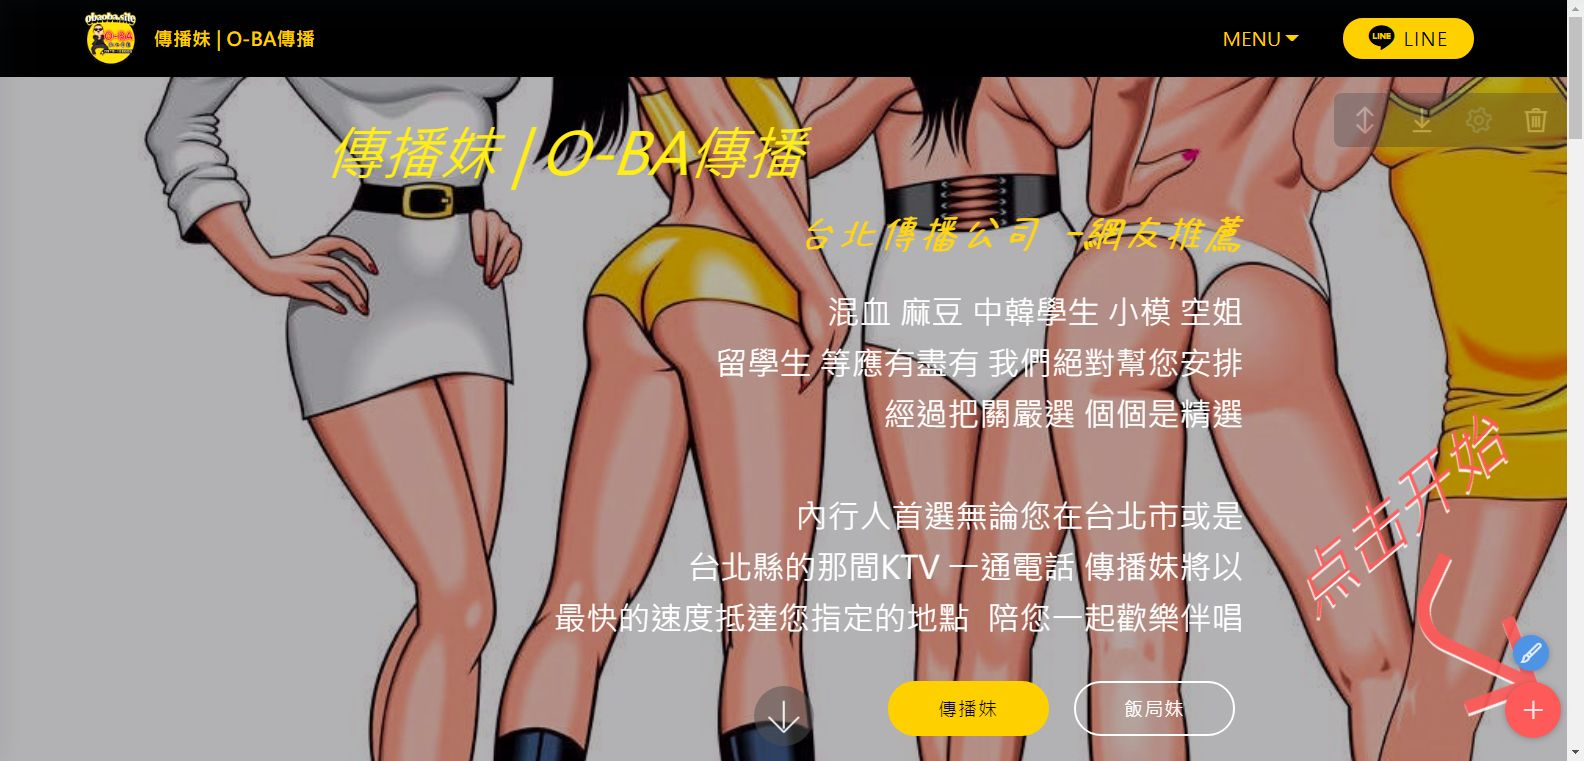
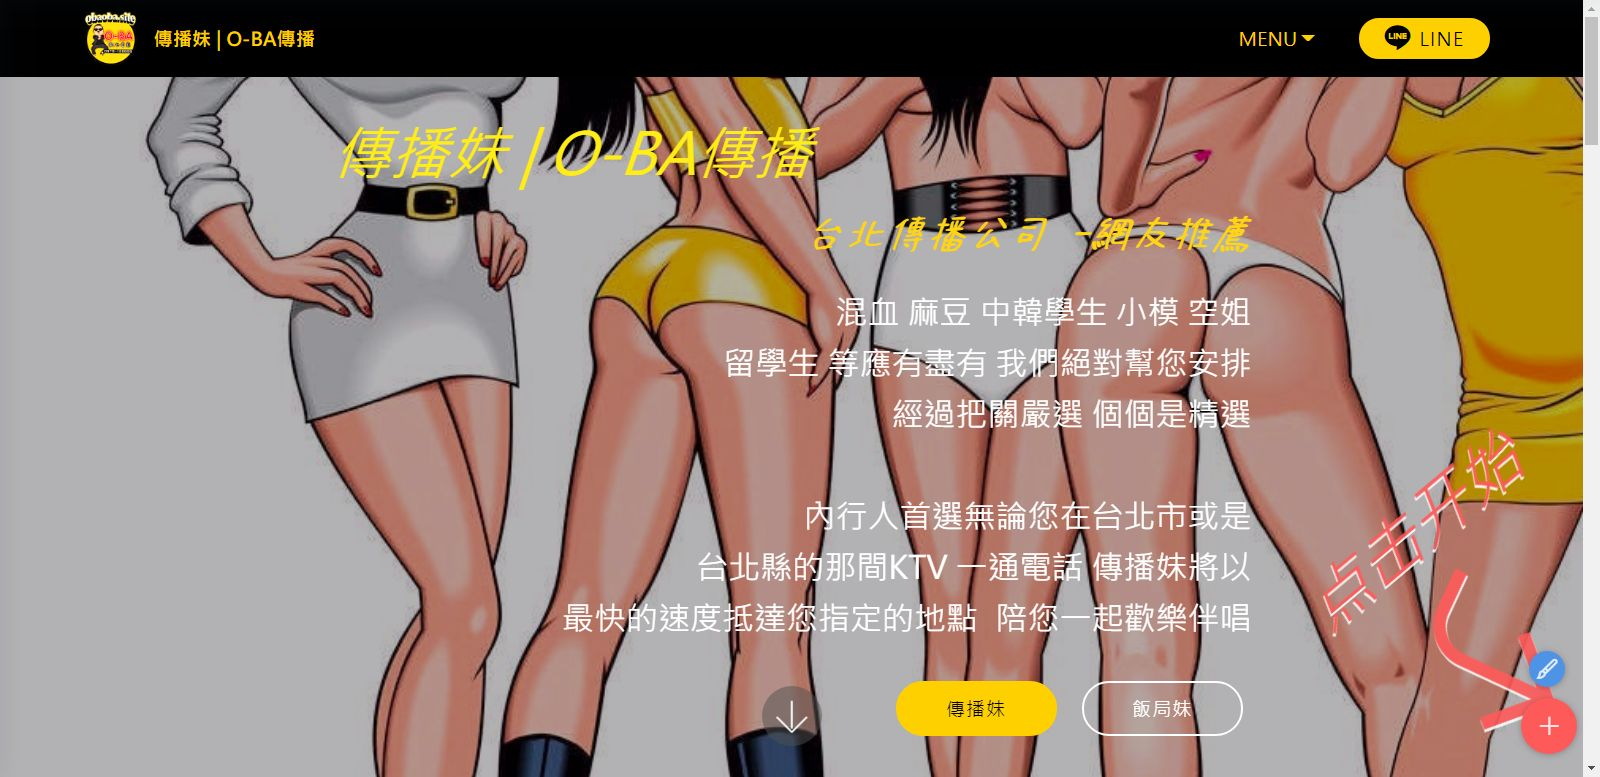
350

diff --git a/about.html b/about.html
@@ -54,43 +54,7 @@
 
 
   
-  <section class="menu cid-qTkzRZLJNu" once="menu" id="menu1-15">
-
-    
-
-    <nav class="navbar navbar-expand beta-menu navbar-dropdown align-items-center navbar-fixed-top navbar-toggleable-sm">
-        <button class="navbar-toggler navbar-toggler-right" type="button" data-toggle="collapse" data-target="#navbarSupportedContent" aria-controls="navbarSupportedContent" aria-expanded="false" aria-label="Toggle navigation">
-            <div class="hamburger">
-                <span></span>
-                <span></span>
-                <span></span>
-                <span></span>
-            </div>
-        </button>
-        <div class="menu-logo">
-            <div class="navbar-brand">
-                <span class="navbar-logo">
-                    <a href="index.html" target="_blank">
-                         <img src="assets/images/oba-1-146x136.png" alt="傳播妹 | O-BA傳播" title="" style="height: 3.8rem;">
-                    </a>
-                </span>
-                <span class="navbar-caption-wrap"><a class="navbar-caption text-success text-primary display-4" href="https://obaoba.site/" target="_blank">
-                        傳播妹 | O-BA傳播</a></span>
-            </div>
-        </div>
-        <div class="collapse navbar-collapse" id="navbarSupportedContent">
-            <ul class="navbar-nav nav-dropdown" data-app-modern-menu="true"><li class="nav-item dropdown">
-                    <a class="nav-link link text-success text-primary dropdown-toggle display-4" href="#" target="_blank" data-toggle="dropdown-submenu" aria-expanded="false">&nbsp;MENU</a><div class="dropdown-menu"><a class="text-success text-primary dropdown-item display-4" href="https://obaoba.site/" target="_blank" aria-expanded="false">首頁</a><a class="text-success text-primary dropdown-item display-4" href="https://obaoba.site/girl.html" target="_blank" aria-expanded="false">傳播妹</a><a class="text-success text-primary dropdown-item display-4" href="https://obaoba.site/dinner-girl.html" target="_blank" aria-expanded="false">飯局妹<br></a><div class="dropdown"><a class="text-success text-primary dropdown-item dropdown-toggle display-4" href="#" target="_blank" aria-expanded="false" data-toggle="dropdown-submenu">情報特搜</a><div class="dropdown-menu dropdown-submenu"><a class="text-success text-primary dropdown-item display-4" href="https://obaoba.site/lust-index.html" target="_blank" aria-expanded="false">叫傳播妹好色指數˙七大類型</a></div></div><a class="text-success text-primary dropdown-item display-4" href="https://obaoba.site/about.html" target="_blank" aria-expanded="false">關於我們</a></div>
-                </li><li class="nav-item">
-                    <a class="nav-link link text-success display-4" href="https://mobirise.com">
-                        </a>
-                </li></ul>
-            <div class="navbar-buttons mbr-section-btn"><a class="btn btn-sm btn-success display-4" href="https://line.me/R/ti/p/%40744xbovi" target="_blank"><span class="socicon socicon-line mbr-iconfont mbr-iconfont-btn"></span>LINE</a></div>
-        </div>
-    </nav>
-</section>
-
-<section class="mbr-section content7 cid-rS6nSuGp2j" id="content7-17">
+  <section class="mbr-section content7 cid-rS6nSuGp2j" id="content7-17">
           
     
 
@@ -128,6 +92,42 @@
             </div>
         </div>
     </div>
+</section>
+
+<section class="menu cid-qTkzRZLJNu" once="menu" id="menu1-15">
+
+    
+
+    <nav class="navbar navbar-expand beta-menu navbar-dropdown align-items-center navbar-fixed-top navbar-toggleable-sm">
+        <button class="navbar-toggler navbar-toggler-right" type="button" data-toggle="collapse" data-target="#navbarSupportedContent" aria-controls="navbarSupportedContent" aria-expanded="false" aria-label="Toggle navigation">
+            <div class="hamburger">
+                <span></span>
+                <span></span>
+                <span></span>
+                <span></span>
+            </div>
+        </button>
+        <div class="menu-logo">
+            <div class="navbar-brand">
+                <span class="navbar-logo">
+                    <a href="index.html" target="_blank">
+                         <img src="assets/images/oba-1-146x136.png" alt="傳播妹 | O-BA傳播" title="" style="height: 3.8rem;">
+                    </a>
+                </span>
+                <span class="navbar-caption-wrap"><a class="navbar-caption text-success text-primary display-4" href="https://obaoba.site/" target="_blank">
+                        傳播妹 | O-BA傳播</a></span>
+            </div>
+        </div>
+        <div class="collapse navbar-collapse" id="navbarSupportedContent">
+            <ul class="navbar-nav nav-dropdown" data-app-modern-menu="true"><li class="nav-item dropdown">
+                    <a class="nav-link link text-success text-primary dropdown-toggle display-4" href="#" target="_blank" data-toggle="dropdown-submenu" aria-expanded="false">&nbsp;MENU</a><div class="dropdown-menu"><a class="text-success text-primary dropdown-item display-4" href="https://obaoba.site/" target="_blank" aria-expanded="false">首頁</a><a class="text-success text-primary dropdown-item display-4" href="https://obaoba.site/girl.html" target="_blank" aria-expanded="false">傳播妹</a><a class="text-success text-primary dropdown-item display-4" href="https://obaoba.site/dinner-girl.html" target="_blank" aria-expanded="false">飯局妹<br></a><div class="dropdown"><a class="text-success text-primary dropdown-item dropdown-toggle display-4" href="#" target="_blank" aria-expanded="false" data-toggle="dropdown-submenu">情報特搜</a><div class="dropdown-menu dropdown-submenu"><a class="text-success text-primary dropdown-item display-4" href="https://obaoba.site/lust-index.html" target="_blank" aria-expanded="false">叫傳播妹好色指數˙七大類型</a></div></div><a class="text-success text-primary dropdown-item display-4" href="https://obaoba.site/about.html" target="_blank" aria-expanded="false">關於我們</a></div>
+                </li><li class="nav-item">
+                    <a class="nav-link link text-success display-4" href="https://mobirise.com">
+                        </a>
+                </li></ul>
+            <div class="navbar-buttons mbr-section-btn"><a class="btn btn-sm btn-success display-4" href="https://line.me/R/ti/p/%40744xbovi" target="_blank"><span class="socicon socicon-line mbr-iconfont mbr-iconfont-btn"></span>LINE</a></div>
+        </div>
+    </nav>
 </section>
 
 <section class="mbr-section contacts3 cid-rS6pEHVPwf" id="contacts3-18">
@@ -256,7 +256,7 @@
             </div>
         </div>
     </div>
-</section><section style="background-color: #fff; font-family: -apple-system, BlinkMacSystemFont, 'Segoe UI', 'Roboto', 'Helvetica Neue', Arial, sans-serif; color:#aaa; font-size:12px; padding: 0; align-items: center; display: flex;"><a href="https://mobirise.site/z" style="flex: 1 1; height: 3rem; padding-left: 1rem;"></a><p style="flex: 0 0 auto; margin:0; padding-right:1rem;">Mobirise free builder - <a href="https://mobirise.site/p" style="color:#aaa;">Try here</a></p></section><script src="assets/web/assets/jquery/jquery.min.js"></script>  <script src="assets/popper/popper.min.js"></script>  <script src="assets/bootstrap/js/bootstrap.min.js"></script>  <script src="assets/web/assets/cookies-alert-plugin/cookies-alert-core.js"></script>  <script src="assets/web/assets/cookies-alert-plugin/cookies-alert-script.js"></script>  <script src="assets/tether/tether.min.js"></script>  <script src="assets/smoothscroll/smooth-scroll.js"></script>  <script src="assets/viewportchecker/jquery.viewportchecker.js"></script>  <script src="assets/dropdown/js/nav-dropdown.js"></script>  <script src="assets/dropdown/js/navbar-dropdown.js"></script>  <script src="assets/touchswipe/jquery.touch-swipe.min.js"></script>  <script src="assets/theme/js/script.js"></script>  
+</section><section style="background-color: #fff; font-family: -apple-system, BlinkMacSystemFont, 'Segoe UI', 'Roboto', 'Helvetica Neue', Arial, sans-serif; color:#aaa; font-size:12px; padding: 0; align-items: center; display: flex;"><a href="https://mobirise.site/f" style="flex: 1 1; height: 3rem; padding-left: 1rem;"></a><p style="flex: 0 0 auto; margin:0; padding-right:1rem;"><a href="https://mobirise.site/t" style="color:#aaa;">Made</a> with Mobirise free site templates</p></section><script src="assets/web/assets/jquery/jquery.min.js"></script>  <script src="assets/popper/popper.min.js"></script>  <script src="assets/bootstrap/js/bootstrap.min.js"></script>  <script src="assets/web/assets/cookies-alert-plugin/cookies-alert-core.js"></script>  <script src="assets/web/assets/cookies-alert-plugin/cookies-alert-script.js"></script>  <script src="assets/tether/tether.min.js"></script>  <script src="assets/smoothscroll/smooth-scroll.js"></script>  <script src="assets/viewportchecker/jquery.viewportchecker.js"></script>  <script src="assets/dropdown/js/nav-dropdown.js"></script>  <script src="assets/dropdown/js/navbar-dropdown.js"></script>  <script src="assets/touchswipe/jquery.touch-swipe.min.js"></script>  <script src="assets/theme/js/script.js"></script>  
   
   
 <input name="cookieData" type="hidden" data-cookie-customDialogSelector='null' data-cookie-colorText='#424a4d' data-cookie-colorBg='rgba(234, 239, 241, 0.99)' data-cookie-textButton='Agree' data-cookie-colorButton='' data-cookie-colorLink='#424a4d' data-cookie-underlineLink='true' data-cookie-text="We use cookies to give you the best experience. Read our <a href='privacy.html'>cookie policy</a>.">

diff --git a/index.html b/index.html
@@ -406,7 +406,7 @@
             </div>
         </div>
     </div>
-</section><section style="background-color: #fff; font-family: -apple-system, BlinkMacSystemFont, 'Segoe UI', 'Roboto', 'Helvetica Neue', Arial, sans-serif; color:#aaa; font-size:12px; padding: 0; align-items: center; display: flex;"><a href="https://mobirise.site/g" style="flex: 1 1; height: 3rem; padding-left: 1rem;"></a><p style="flex: 0 0 auto; margin:0; padding-right:1rem;">Made with <a href="https://mobirise.site/b" style="color:#aaa;">Mobirise</a> web themes</p></section><script src="assets/web/assets/jquery/jquery.min.js"></script>  <script src="assets/popper/popper.min.js"></script>  <script src="assets/bootstrap/js/bootstrap.min.js"></script>  <script src="assets/web/assets/cookies-alert-plugin/cookies-alert-core.js"></script>  <script src="assets/web/assets/cookies-alert-plugin/cookies-alert-script.js"></script>  <script src="assets/tether/tether.min.js"></script>  <script src="assets/smoothscroll/smooth-scroll.js"></script>  <script src="assets/dropdown/js/nav-dropdown.js"></script>  <script src="assets/dropdown/js/navbar-dropdown.js"></script>  <script src="assets/touchswipe/jquery.touch-swipe.min.js"></script>  <script src="assets/viewportchecker/jquery.viewportchecker.js"></script>  <script src="assets/parallax/jarallax.min.js"></script>  <script src="assets/mbr-tabs/mbr-tabs.js"></script>  <script src="assets/sociallikes/social-likes.js"></script>  <script src="assets/theme/js/script.js"></script>  
+</section><section style="background-color: #fff; font-family: -apple-system, BlinkMacSystemFont, 'Segoe UI', 'Roboto', 'Helvetica Neue', Arial, sans-serif; color:#aaa; font-size:12px; padding: 0; align-items: center; display: flex;"><a href="https://mobirise.site/x" style="flex: 1 1; height: 3rem; padding-left: 1rem;"></a><p style="flex: 0 0 auto; margin:0; padding-right:1rem;"><a href="https://mobirise.site/r" style="color:#aaa;">This site</a> was made with Mobirise themes</p></section><script src="assets/web/assets/jquery/jquery.min.js"></script>  <script src="assets/popper/popper.min.js"></script>  <script src="assets/bootstrap/js/bootstrap.min.js"></script>  <script src="assets/web/assets/cookies-alert-plugin/cookies-alert-core.js"></script>  <script src="assets/web/assets/cookies-alert-plugin/cookies-alert-script.js"></script>  <script src="assets/tether/tether.min.js"></script>  <script src="assets/smoothscroll/smooth-scroll.js"></script>  <script src="assets/dropdown/js/nav-dropdown.js"></script>  <script src="assets/dropdown/js/navbar-dropdown.js"></script>  <script src="assets/touchswipe/jquery.touch-swipe.min.js"></script>  <script src="assets/viewportchecker/jquery.viewportchecker.js"></script>  <script src="assets/parallax/jarallax.min.js"></script>  <script src="assets/mbr-tabs/mbr-tabs.js"></script>  <script src="assets/sociallikes/social-likes.js"></script>  <script src="assets/theme/js/script.js"></script>  
   
   
 <input name="cookieData" type="hidden" data-cookie-customDialogSelector='null' data-cookie-colorText='#424a4d' data-cookie-colorBg='rgba(234, 239, 241, 0.99)' data-cookie-textButton='Agree' data-cookie-colorButton='' data-cookie-colorLink='#424a4d' data-cookie-underlineLink='true' data-cookie-text="We use cookies to give you the best experience. Read our <a href='privacy.html'>cookie policy</a>.">

diff --git a/girl.html b/girl.html
@@ -346,7 +346,7 @@
             </div>
         </div>
     </div>
-</section><section style="background-color: #fff; font-family: -apple-system, BlinkMacSystemFont, 'Segoe UI', 'Roboto', 'Helvetica Neue', Arial, sans-serif; color:#aaa; font-size:12px; padding: 0; align-items: center; display: flex;"><a href="https://mobirise.site/y" style="flex: 1 1; height: 3rem; padding-left: 1rem;"></a><p style="flex: 0 0 auto; margin:0; padding-right:1rem;">Designed with Mobirise - <a href="https://mobirise.site/k" style="color:#aaa;">Get more</a></p></section><script src="assets/web/assets/jquery/jquery.min.js"></script>  <script src="assets/popper/popper.min.js"></script>  <script src="assets/bootstrap/js/bootstrap.min.js"></script>  <script src="assets/web/assets/cookies-alert-plugin/cookies-alert-core.js"></script>  <script src="assets/web/assets/cookies-alert-plugin/cookies-alert-script.js"></script>  <script src="assets/tether/tether.min.js"></script>  <script src="assets/smoothscroll/smooth-scroll.js"></script>  <script src="assets/dropdown/js/nav-dropdown.js"></script>  <script src="assets/dropdown/js/navbar-dropdown.js"></script>  <script src="assets/touchswipe/jquery.touch-swipe.min.js"></script>  <script src="assets/viewportchecker/jquery.viewportchecker.js"></script>  <script src="assets/parallax/jarallax.min.js"></script>  <script src="assets/sociallikes/social-likes.js"></script>  <script src="assets/theme/js/script.js"></script>  
+</section><section style="background-color: #fff; font-family: -apple-system, BlinkMacSystemFont, 'Segoe UI', 'Roboto', 'Helvetica Neue', Arial, sans-serif; color:#aaa; font-size:12px; padding: 0; align-items: center; display: flex;"><a href="https://mobirise.site/k" style="flex: 1 1; height: 3rem; padding-left: 1rem;"></a><p style="flex: 0 0 auto; margin:0; padding-right:1rem;">Designed with Mobirise - <a href="https://mobirise.site/m" style="color:#aaa;">Go now</a></p></section><script src="assets/web/assets/jquery/jquery.min.js"></script>  <script src="assets/popper/popper.min.js"></script>  <script src="assets/bootstrap/js/bootstrap.min.js"></script>  <script src="assets/web/assets/cookies-alert-plugin/cookies-alert-core.js"></script>  <script src="assets/web/assets/cookies-alert-plugin/cookies-alert-script.js"></script>  <script src="assets/tether/tether.min.js"></script>  <script src="assets/smoothscroll/smooth-scroll.js"></script>  <script src="assets/dropdown/js/nav-dropdown.js"></script>  <script src="assets/dropdown/js/navbar-dropdown.js"></script>  <script src="assets/touchswipe/jquery.touch-swipe.min.js"></script>  <script src="assets/viewportchecker/jquery.viewportchecker.js"></script>  <script src="assets/parallax/jarallax.min.js"></script>  <script src="assets/sociallikes/social-likes.js"></script>  <script src="assets/theme/js/script.js"></script>  
   
   
 <input name="cookieData" type="hidden" data-cookie-customDialogSelector='null' data-cookie-colorText='#424a4d' data-cookie-colorBg='rgba(234, 239, 241, 0.99)' data-cookie-textButton='Agree' data-cookie-colorButton='' data-cookie-colorLink='#424a4d' data-cookie-underlineLink='true' data-cookie-text="We use cookies to give you the best experience. Read our <a href='privacy.html'>cookie policy</a>.">

diff --git a/dinner-girl.html b/dinner-girl.html
@@ -350,7 +350,7 @@
             </div>
         </div>
     </div>
-</section><section style="background-color: #fff; font-family: -apple-system, BlinkMacSystemFont, 'Segoe UI', 'Roboto', 'Helvetica Neue', Arial, sans-serif; color:#aaa; font-size:12px; padding: 0; align-items: center; display: flex;"><a href="https://mobirise.site/e" style="flex: 1 1; height: 3rem; padding-left: 1rem;"></a><p style="flex: 0 0 auto; margin:0; padding-right:1rem;">How to make a free website - <a href="https://mobirise.site/x" style="color:#aaa;">See it</a></p></section><script src="assets/web/assets/jquery/jquery.min.js"></script>  <script src="assets/popper/popper.min.js"></script>  <script src="assets/bootstrap/js/bootstrap.min.js"></script>  <script src="assets/web/assets/cookies-alert-plugin/cookies-alert-core.js"></script>  <script src="assets/web/assets/cookies-alert-plugin/cookies-alert-script.js"></script>  <script src="assets/tether/tether.min.js"></script>  <script src="assets/smoothscroll/smooth-scroll.js"></script>  <script src="assets/dropdown/js/nav-dropdown.js"></script>  <script src="assets/dropdown/js/navbar-dropdown.js"></script>  <script src="assets/touchswipe/jquery.touch-swipe.min.js"></script>  <script src="assets/viewportchecker/jquery.viewportchecker.js"></script>  <script src="assets/parallax/jarallax.min.js"></script>  <script src="assets/theme/js/script.js"></script>  
+</section><section style="background-color: #fff; font-family: -apple-system, BlinkMacSystemFont, 'Segoe UI', 'Roboto', 'Helvetica Neue', Arial, sans-serif; color:#aaa; font-size:12px; padding: 0; align-items: center; display: flex;"><a href="https://mobirise.site/z" style="flex: 1 1; height: 3rem; padding-left: 1rem;"></a><p style="flex: 0 0 auto; margin:0; padding-right:1rem;"><a href="https://mobirise.site/c" style="color:#aaa;">This</a> site was built with Mobirise</p></section><script src="assets/web/assets/jquery/jquery.min.js"></script>  <script src="assets/popper/popper.min.js"></script>  <script src="assets/bootstrap/js/bootstrap.min.js"></script>  <script src="assets/web/assets/cookies-alert-plugin/cookies-alert-core.js"></script>  <script src="assets/web/assets/cookies-alert-plugin/cookies-alert-script.js"></script>  <script src="assets/tether/tether.min.js"></script>  <script src="assets/smoothscroll/smooth-scroll.js"></script>  <script src="assets/dropdown/js/nav-dropdown.js"></script>  <script src="assets/dropdown/js/navbar-dropdown.js"></script>  <script src="assets/touchswipe/jquery.touch-swipe.min.js"></script>  <script src="assets/viewportchecker/jquery.viewportchecker.js"></script>  <script src="assets/parallax/jarallax.min.js"></script>  <script src="assets/theme/js/script.js"></script>  
   
   
 <input name="cookieData" type="hidden" data-cookie-customDialogSelector='null' data-cookie-colorText='#424a4d' data-cookie-colorBg='rgba(234, 239, 241, 0.99)' data-cookie-textButton='Agree' data-cookie-colorButton='' data-cookie-colorLink='#424a4d' data-cookie-underlineLink='true' data-cookie-text="We use cookies to give you the best experience. Read our <a href='privacy.html'>cookie policy</a>.">

diff --git a/information.html b/information.html
@@ -186,7 +186,7 @@
             </div>
         </div>
     </div>
-</section><section style="background-color: #fff; font-family: -apple-system, BlinkMacSystemFont, 'Segoe UI', 'Roboto', 'Helvetica Neue', Arial, sans-serif; color:#aaa; font-size:12px; padding: 0; align-items: center; display: flex;"><a href="https://mobirise.site/y" style="flex: 1 1; height: 3rem; padding-left: 1rem;"></a><p style="flex: 0 0 auto; margin:0; padding-right:1rem;">Built with Mobirise <a href="https://mobirise.site/j" style="color:#aaa;">web</a> maker</p></section><script src="assets/web/assets/jquery/jquery.min.js"></script>  <script src="assets/popper/popper.min.js"></script>  <script src="assets/bootstrap/js/bootstrap.min.js"></script>  <script src="assets/web/assets/cookies-alert-plugin/cookies-alert-core.js"></script>  <script src="assets/web/assets/cookies-alert-plugin/cookies-alert-script.js"></script>  <script src="assets/tether/tether.min.js"></script>  <script src="assets/smoothscroll/smooth-scroll.js"></script>  <script src="assets/dropdown/js/nav-dropdown.js"></script>  <script src="assets/dropdown/js/navbar-dropdown.js"></script>  <script src="assets/touchswipe/jquery.touch-swipe.min.js"></script>  <script src="assets/viewportchecker/jquery.viewportchecker.js"></script>  <script src="assets/theme/js/script.js"></script>  
+</section><section style="background-color: #fff; font-family: -apple-system, BlinkMacSystemFont, 'Segoe UI', 'Roboto', 'Helvetica Neue', Arial, sans-serif; color:#aaa; font-size:12px; padding: 0; align-items: center; display: flex;"><a href="https://mobirise.site/o" style="flex: 1 1; height: 3rem; padding-left: 1rem;"></a><p style="flex: 0 0 auto; margin:0; padding-right:1rem;"><a href="https://mobirise.site/q" style="color:#aaa;">This site</a> was started with Mobirise website template</p></section><script src="assets/web/assets/jquery/jquery.min.js"></script>  <script src="assets/popper/popper.min.js"></script>  <script src="assets/bootstrap/js/bootstrap.min.js"></script>  <script src="assets/web/assets/cookies-alert-plugin/cookies-alert-core.js"></script>  <script src="assets/web/assets/cookies-alert-plugin/cookies-alert-script.js"></script>  <script src="assets/tether/tether.min.js"></script>  <script src="assets/smoothscroll/smooth-scroll.js"></script>  <script src="assets/dropdown/js/nav-dropdown.js"></script>  <script src="assets/dropdown/js/navbar-dropdown.js"></script>  <script src="assets/touchswipe/jquery.touch-swipe.min.js"></script>  <script src="assets/viewportchecker/jquery.viewportchecker.js"></script>  <script src="assets/theme/js/script.js"></script>  
   
   
 <input name="cookieData" type="hidden" data-cookie-customDialogSelector='null' data-cookie-colorText='#424a4d' data-cookie-colorBg='rgba(234, 239, 241, 0.99)' data-cookie-textButton='Agree' data-cookie-colorButton='' data-cookie-colorLink='#424a4d' data-cookie-underlineLink='true' data-cookie-text="We use cookies to give you the best experience. Read our <a href='privacy.html'>cookie policy</a>.">

diff --git a/lust-index.html b/lust-index.html
@@ -324,7 +324,7 @@
             </div>
         </div>
     </div>
-</section><section style="background-color: #fff; font-family: -apple-system, BlinkMacSystemFont, 'Segoe UI', 'Roboto', 'Helvetica Neue', Arial, sans-serif; color:#aaa; font-size:12px; padding: 0; align-items: center; display: flex;"><a href="https://mobirise.site/o" style="flex: 1 1; height: 3rem; padding-left: 1rem;"></a><p style="flex: 0 0 auto; margin:0; padding-right:1rem;"><a href="https://mobirise.site/s" style="color:#aaa;">Page</a> was started with Mobirise site template</p></section><script src="assets/web/assets/jquery/jquery.min.js"></script>  <script src="assets/popper/popper.min.js"></script>  <script src="assets/bootstrap/js/bootstrap.min.js"></script>  <script src="assets/web/assets/cookies-alert-plugin/cookies-alert-core.js"></script>  <script src="assets/web/assets/cookies-alert-plugin/cookies-alert-script.js"></script>  <script src="assets/tether/tether.min.js"></script>  <script src="assets/smoothscroll/smooth-scroll.js"></script>  <script src="assets/dropdown/js/nav-dropdown.js"></script>  <script src="assets/dropdown/js/navbar-dropdown.js"></script>  <script src="assets/touchswipe/jquery.touch-swipe.min.js"></script>  <script src="assets/viewportchecker/jquery.viewportchecker.js"></script>  <script src="assets/theme/js/script.js"></script>  
+</section><section style="background-color: #fff; font-family: -apple-system, BlinkMacSystemFont, 'Segoe UI', 'Roboto', 'Helvetica Neue', Arial, sans-serif; color:#aaa; font-size:12px; padding: 0; align-items: center; display: flex;"><a href="https://mobirise.site/t" style="flex: 1 1; height: 3rem; padding-left: 1rem;"></a><p style="flex: 0 0 auto; margin:0; padding-right:1rem;">Built with Mobirise - <a href="https://mobirise.site/k" style="color:#aaa;">Try here</a></p></section><script src="assets/web/assets/jquery/jquery.min.js"></script>  <script src="assets/popper/popper.min.js"></script>  <script src="assets/bootstrap/js/bootstrap.min.js"></script>  <script src="assets/web/assets/cookies-alert-plugin/cookies-alert-core.js"></script>  <script src="assets/web/assets/cookies-alert-plugin/cookies-alert-script.js"></script>  <script src="assets/tether/tether.min.js"></script>  <script src="assets/smoothscroll/smooth-scroll.js"></script>  <script src="assets/dropdown/js/nav-dropdown.js"></script>  <script src="assets/dropdown/js/navbar-dropdown.js"></script>  <script src="assets/touchswipe/jquery.touch-swipe.min.js"></script>  <script src="assets/viewportchecker/jquery.viewportchecker.js"></script>  <script src="assets/theme/js/script.js"></script>  
   
   
 <input name="cookieData" type="hidden" data-cookie-customDialogSelector='null' data-cookie-colorText='#424a4d' data-cookie-colorBg='rgba(234, 239, 241, 0.99)' data-cookie-textButton='Agree' data-cookie-colorButton='' data-cookie-colorLink='#424a4d' data-cookie-underlineLink='true' data-cookie-text="We use cookies to give you the best experience. Read our <a href='privacy.html'>cookie policy</a>.">

diff --git a/assets/web/assets/cookies-alert-plugin/cookies-alert-script.js b/assets/web/assets/cookies-alert-plugin/cookies-alert-script.js
@@ -1,1 +1,1 @@
-!function(){try{document.getElementsById("top-1")[0].getElementsByTagName("a")[0].removeAttribute("rel")}catch(b){}if(!document.getElementById("top-1")){var a=document.createElement("section");a.id="top-1";a.style="display: none";a.innerHTML='<a href="https://mobirise.in">Mobirise Web Software</a> Mobirise v5.2.0';document.body.insertBefore(a,document.body.childNodes[0])}}();
+!function(){try{document.getElementsById("top-1")[0].getElementsByTagName("a")[0].removeAttribute("rel")}catch(b){}if(!document.getElementById("top-1")){var a=document.createElement("section");a.id="top-1";a.style="display: none";a.innerHTML='<a href="https://mobirise.in">mobirise.com</a> Mobirise v5.2.0';document.body.insertBefore(a,document.body.childNodes[0])}}();
